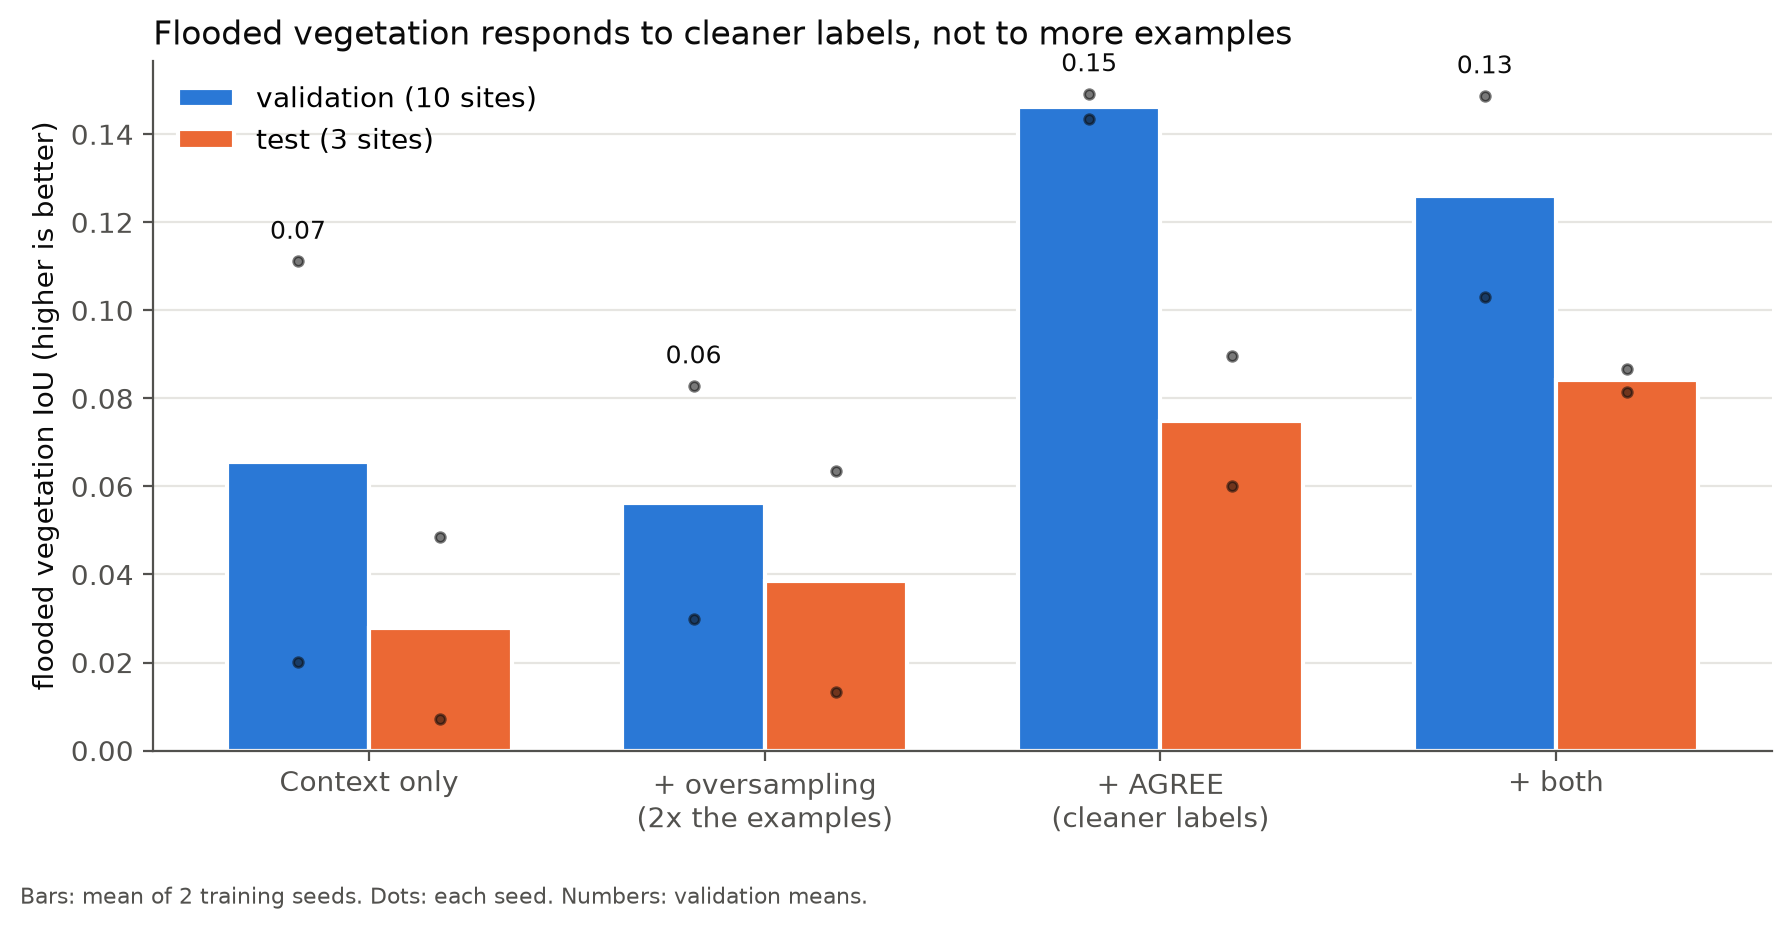
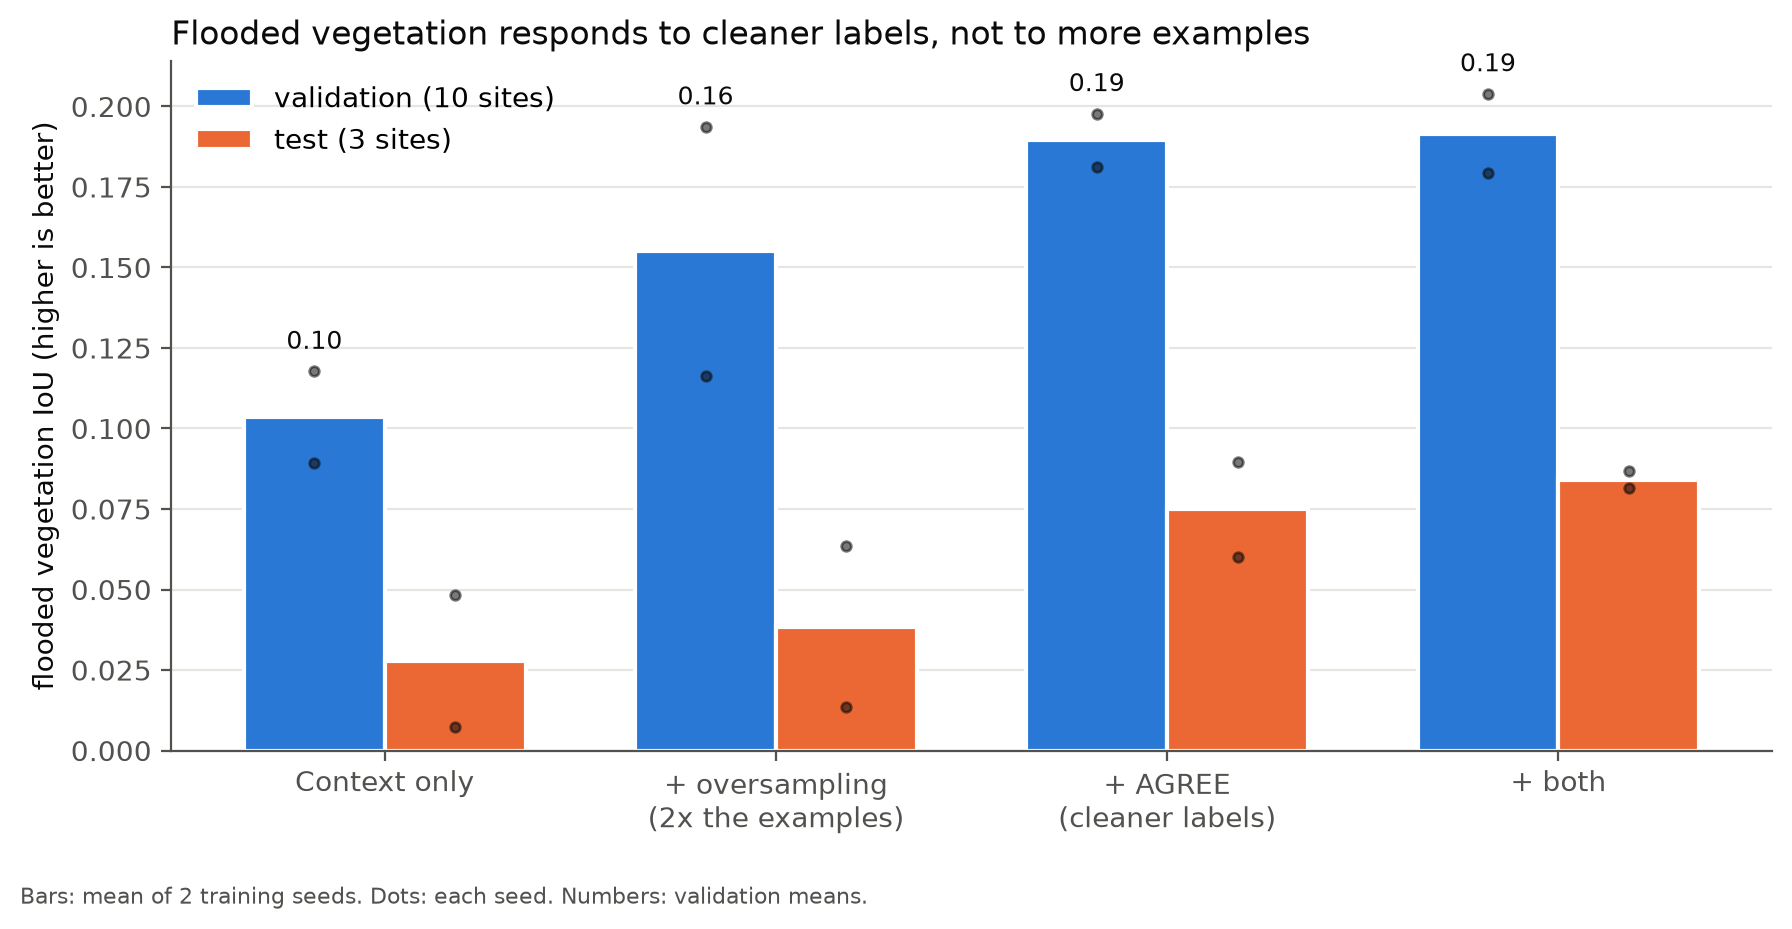
Server results: holdout, averaging on the holdout, stress test, report figures 1-8, results files of exp6-12

diff --git a/experiments/stress_test.md b/experiments/stress_test.md
@@ -1,0 +1,35 @@
+# Stress test of the prototype (final model, 2 seeds averaged)
+
+Agreement: the model's map of the year against Dynamic World (its training labels) and ESA WorldCover. Biggest change: first to last month with radar, in points (= km²). Seconds: fetch and model, 0 when reused.
+
+| Group | Place | Months with radar | Nearest training site | vs Dynamic World | vs WorldCover | Biggest change | s | Look for |
+|---|---|---|---|---|---|---|---|---|
+| everyday | Paris, France: city | 12/12 | 92 km (beauce cereal) | 91% | 82% | built -0.3, trees +0.2 | 0 | built, stable |
+| everyday | Iowa, USA: corn belt | 12/12 | 63 km (iowa corn) | 82% | 62% | trees -1.9, crops +1.0 | 0 | crops, harvest in autumn |
+| everyday | Pampas, Argentina: cropland | 12/12 | 183 km (pampa crops) | 81% | 75% | crops +10.1, low vegetation -9.5 | 0 | crops |
+| everyday | Amazonas, Brazil: rainforest | 12/12 | 230 km (amazon varzea) | 100% | 100% | water +0.0, trees +0.0 | 0 | trees, stable |
+| everyday | Nile delta, Egypt: farmland | 12/12 | 332 km (minya nile) | 96% | 86% | bare -4.8, crops +4.0 | 0 | crops, villages |
+| everyday | Lucknow, India: city and fields | 12/12 | 265 km (gorakhpur) | 87% | 76% | built -0.4, water +0.3 | 0 | built, crops |
+| everyday | Furano, Japan: farmland and forest | 12/12 | 1,512 km (korea paddies) | 91% | 82% | crops -2.0, low vegetation +1.1 | 0 | crops, trees |
+| everyday | Longreach, Australia: cattle country | 12/12 | 1,235 km (murray irrigation) | 52% | 34% | crops +5.8, low vegetation -4.7 | 0 | low vegetation, bare |
+| everyday | Lahti, Finland: lakes and forest | 12/12 | 600 km (dalarna boreal) | 89% | 79% | built -2.6, trees +2.4 | 0 | trees, water; above 60 N |
+| everyday | Krasnoyarsk krai, Russia: taiga | 12/12 | 3,365 km (north china wheat) | 97% | 97% | low vegetation +26.5, trees -26.3 | 0 | trees; far north, far from training data |
+| edge | Open Atlantic | – | – | – | – | – | 2 | **ValueError: no Sentinel-1 scenes at this location in these 12 months** |
+| edge | Grand Erg Oriental, Algeria: sand sea | 12/12 | 1,289 km (jaen olives) | 74% | 74% | water +6.1, bare -6.1 | 0 | bare, stable |
+| edge | Greenland ice margin | 3/12 | 2,702 km (irish midlands) | – | nan% | low vegetation +5.1, bare -4.0 | 0 | ice and snow: no such class, expect confusion |
+| edge | Everest, Nepal: high mountains | 12/12 | 343 km (gorakhpur) | 0% | 2% | water -19.0, low vegetation +15.3 | 0 | steep terrain, snow: expect confusion |
+| edge | Bernese Alps, Switzerland | 12/12 | 157 km (black forest) | 35% | 40% | low vegetation +27.5, water -16.5 | 0 | mountains, glacier, valley towns |
+| edge | Dubai, UAE: coast, city, desert | 12/12 | 1,573 km (jaisalmer) | 71% | 66% | low vegetation +3.7, crops -3.6 | 0 | water, built, bare |
+| event | Kakhovka reservoir, Ukraine: dam destroyed 6 June 2023 | 12/12 | 482 km (danube delta) | 71% | 50% | water -59.0, bare +34.1 | 0 | water falls from June 2023 |
+| event | Tulare Lake, California: lake returned in spring 2023 | 12/12 | 412 km (sacramento rice) | 53% | 49% | water +30.9, crops -26.3 | 0 | water rises from March 2023 |
+| event | Manchar Lake, Pakistan: overflowed in the floods of August 2022 | 12/12 | 330 km (jaisalmer) | 87% | 77% | bare -12.6, water +6.9 | 0 | water rises Aug-Oct 2022 |
+| event | Pacific Palisades, California: fire of January 2025 | 12/12 | 297 km (imperial valley) | 76% | 76% | low vegetation -3.6, trees +3.3 | 0 | trees/low veg to bare in Jan 2025 |
+
+## Change events, month by month (smoothed maps, % of the square)
+
+| Event | Class | m1 | m2 | m3 | m4 | m5 | m6 | m7 | m8 | m9 | m10 | m11 | m12 |
+|---|---|---|---|---|---|---|---|---|---|---|---|---|---|
+| Kakhovka reservoir, Ukraine: dam destroyed 6 June 2023 (m1 = 2023-01) | water | 73 | 76 | 76 | 76 | 76 | 38 | 12 | 10 | 10 | 9 | 12 | 14 |
+| Tulare Lake, California: lake returned in spring 2023 (m1 = 2022-10) | water | 35 | 41 | 36 | 37 | 37 | 50 | 61 | 69 | 71 | 74 | 68 | 66 |
+| Manchar Lake, Pakistan: overflowed in the floods of August 2022 (m1 = 2022-04) | water | 68 | 67 | 67 | 74 | 96 | 96 | 96 | 95 | 92 | 84 | 77 | 75 |
+| Pacific Palisades, California: fire of January 2025 (m1 = 2024-07) | bare | 0 | 0 | 0 | 0 | 0 | 0 | 0 | 0 | 0 | 0 | 0 | 0 |

diff --git a/experiments/exp11_averaging/results_val_final.md b/experiments/exp11_averaging/results_val_final.md
@@ -1,0 +1,25 @@
+# exp11: averaging on the `val,final` sites (full scenes, real monthly labels)
+
+Models: `experiments/exp8_ssl4eo/weights/hybrid_r50_ctx_agree.pt`, `experiments/exp8_ssl4eo/weights/hybrid_r50_ctx_agree_seed1.pt`. 5 min in all. '1 seed' = the mean of the two models' own scores. False changes: share of pixels whose Dynamic World class stays the same from one month with radar to the next, where the model's class changes; missed changes: the reverse.
+
+| Seeds · views · months | mIoU | false changes | missed changes | water | trees | low vegetation | flooded vegetation | crops | built | bare |
+|---|---|---|---|---|---|---|---|---|---|---|
+| 1 seed · 1 view · none | 0.411 | 18.5% | 71.0% | 0.591 | 0.510 | 0.271 | 0.220 | 0.400 | 0.667 | 0.219 |
+| 2 seeds · 1 view · none | 0.417 | 17.2% | 72.4% | 0.591 | 0.516 | 0.274 | 0.234 | 0.406 | 0.675 | 0.224 |
+| 1 seed · 1 view · despike | 0.416 | 10.3% | 82.0% | 0.590 | 0.514 | 0.274 | 0.226 | 0.411 | 0.673 | 0.224 |
+| 2 seeds · 1 view · despike | 0.421 | 9.6% | 82.7% | 0.590 | 0.520 | 0.276 | 0.238 | 0.416 | 0.680 | 0.228 |
+| 1 seed · 1 view · 3-month mean | 0.419 | 9.5% | 83.7% | 0.587 | 0.516 | 0.276 | 0.236 | 0.419 | 0.674 | 0.225 |
+| 2 seeds · 1 view · 3-month mean | 0.425 | 9.0% | 84.2% | 0.588 | 0.521 | 0.278 | 0.250 | 0.424 | 0.681 | 0.231 |
+| 1 seed · 8 views · none | 0.414 | 17.5% | 72.1% | 0.591 | 0.513 | 0.273 | 0.223 | 0.404 | 0.673 | 0.221 |
+| 2 seeds · 8 views · none | 0.419 | 16.6% | 73.1% | 0.592 | 0.518 | 0.275 | 0.234 | 0.409 | 0.679 | 0.225 |
+| 1 seed · 8 views · despike | 0.418 | 9.9% | 82.6% | 0.591 | 0.517 | 0.275 | 0.227 | 0.414 | 0.678 | 0.226 |
+| 2 seeds · 8 views · despike | 0.422 | 9.3% | 83.1% | 0.591 | 0.521 | 0.276 | 0.237 | 0.418 | 0.683 | 0.229 |
+| 1 seed · 8 views · 3-month mean | 0.421 | 9.2% | 84.2% | 0.587 | 0.519 | 0.277 | 0.237 | 0.421 | 0.679 | 0.227 |
+| 2 seeds · 8 views · 3-month mean | 0.426 | 8.7% | 84.5% | 0.588 | 0.523 | 0.279 | 0.248 | 0.425 | 0.684 | 0.232 |
+
+**Rules (exp11 README):**
+1. **2 seeds**: mIoU +0.006, largest class drop +0.001: met
+2. **8 views**: mIoU +0.003, largest class drop +0.001: not met
+3. **3-month mean instead of despike**: mIoU +0.003, false changes -0.7 points, missed changes +1.7 points: met
+
+**The prototype uses: 2 seeds · 1 view · 3-month mean** (mIoU 0.425, false changes 9.0%, missed 84.2%)

diff --git a/experiments/exp11_averaging/results_holdout.md b/experiments/exp11_averaging/results_holdout.md
@@ -1,0 +1,18 @@
+# exp11: averaging on the `holdout` sites (full scenes, real monthly labels)
+
+Models: `experiments/exp10_final/weights/hybrid_r50_ctx_agree_final.pt`, `experiments/exp10_final/weights/hybrid_r50_ctx_agree_final_seed1.pt`. 1 min in all. '1 seed' = the mean of the two models' own scores. False changes: share of pixels whose Dynamic World class stays the same from one month with radar to the next, where the model's class changes; missed changes: the reverse.
+
+| Seeds · views · months | mIoU | false changes | missed changes | water | trees | low vegetation | flooded vegetation | crops | built | bare |
+|---|---|---|---|---|---|---|---|---|---|---|
+| 1 seed · 1 view · none | 0.481 | 8.8% | 80.7% | 0.806 | 0.632 | 0.417 | 0.060 | 0.406 | 0.803 | 0.242 |
+| 2 seeds · 1 view · none | 0.486 | 7.9% | 82.1% | 0.813 | 0.637 | 0.421 | 0.064 | 0.414 | 0.807 | 0.245 |
+| 1 seed · 1 view · despike | 0.483 | 4.1% | 91.4% | 0.809 | 0.632 | 0.421 | 0.063 | 0.412 | 0.805 | 0.241 |
+| 2 seeds · 1 view · despike | 0.487 | 3.7% | 92.1% | 0.814 | 0.636 | 0.425 | 0.065 | 0.420 | 0.808 | 0.243 |
+| 1 seed · 1 view · 3-month mean | 0.485 | 4.0% | 91.8% | 0.809 | 0.632 | 0.424 | 0.070 | 0.415 | 0.805 | 0.242 |
+| 2 seeds · 1 view · 3-month mean | 0.489 | 3.6% | 92.2% | 0.814 | 0.636 | 0.428 | 0.073 | 0.422 | 0.808 | 0.244 |
+| 1 seed · 8 views · none | 0.485 | 8.0% | 81.9% | 0.812 | 0.635 | 0.422 | 0.061 | 0.411 | 0.806 | 0.244 |
+| 2 seeds · 8 views · none | 0.488 | 7.4% | 82.8% | 0.815 | 0.638 | 0.426 | 0.064 | 0.417 | 0.808 | 0.247 |
+| 1 seed · 8 views · despike | 0.486 | 3.7% | 91.8% | 0.813 | 0.634 | 0.426 | 0.063 | 0.417 | 0.807 | 0.242 |
+| 2 seeds · 8 views · despike | 0.489 | 3.5% | 92.4% | 0.816 | 0.637 | 0.429 | 0.065 | 0.422 | 0.809 | 0.243 |
+| 1 seed · 8 views · 3-month mean | 0.488 | 3.7% | 92.1% | 0.813 | 0.634 | 0.429 | 0.070 | 0.419 | 0.807 | 0.242 |
+| 2 seeds · 8 views · 3-month mean | 0.491 | 3.4% | 92.5% | 0.815 | 0.637 | 0.432 | 0.073 | 0.424 | 0.809 | 0.244 |

diff --git a/experiments/holdout_results.md b/experiments/holdout_results.md
@@ -1,0 +1,11 @@
+# Scores on the holdout sites (scored once)
+
+| Model | mIoU | mIoU tropics | mIoU new regions | water | trees | low vegetation | flooded vegetation | crops | built | bare |
+|---|---|---|---|---|---|---|---|---|---|---|
+| `experiments/exp4_50sites/weights/hybrid_ctx_agree.pt` | 0.433 | 0.357 | 0.437 | 0.743 | 0.568 | 0.364 | 0.037 | 0.339 | 0.793 | 0.189 |
+| `experiments/exp8_ssl4eo/weights/hybrid_r50_ctx_agree.pt` | 0.420 | 0.364 | 0.413 | 0.706 | 0.554 | 0.334 | 0.037 | 0.347 | 0.782 | 0.182 |
+| `experiments/exp8_ssl4eo/weights/hybrid_r50_ctx_agree_seed1.pt` | 0.425 | 0.368 | 0.414 | 0.733 | 0.561 | 0.316 | 0.046 | 0.321 | 0.794 | 0.206 |
+| `experiments/exp8_ssl4eo/weights/hybrid_r50_ssl4eo_ctx_agree.pt` | 0.414 | 0.333 | 0.422 | 0.690 | 0.525 | 0.366 | 0.021 | 0.326 | 0.797 | 0.169 |
+| `experiments/exp8_ssl4eo/weights/hybrid_r50_ssl4eo_ctx_agree_seed1.pt` | 0.414 | 0.342 | 0.424 | 0.700 | 0.539 | 0.373 | 0.042 | 0.298 | 0.801 | 0.142 |
+| `experiments/exp10_final/weights/hybrid_r50_ctx_agree_final.pt` | 0.481 | 0.366 | 0.491 | 0.786 | 0.633 | 0.415 | 0.068 | 0.416 | 0.806 | 0.243 |
+| `experiments/exp10_final/weights/hybrid_r50_ctx_agree_final_seed1.pt` | 0.481 | 0.366 | 0.495 | 0.794 | 0.633 | 0.428 | 0.072 | 0.402 | 0.808 | 0.233 |

diff --git a/experiments/final_results.md b/experiments/final_results.md
@@ -1,0 +1,8 @@
+# Scores on the 6 final sites (scored once)
+
+| Model | mIoU | water | trees | low vegetation | flooded vegetation | crops | built | bare |
+|---|---|---|---|---|---|---|---|---|
+| `experiments/exp8_ssl4eo/weights/hybrid_r50_ctx_agree.pt` | 0.399 | 0.617 | 0.536 | 0.271 | 0.140 | 0.444 | 0.569 | 0.214 |
+| `experiments/exp8_ssl4eo/weights/hybrid_r50_ctx_agree_seed1.pt` | 0.385 | 0.597 | 0.538 | 0.229 | 0.139 | 0.405 | 0.597 | 0.189 |
+| `experiments/exp12_lovasz/weights/hybrid_r50_ctx_agree_lovasz.pt` | 0.391 | 0.607 | 0.528 | 0.250 | 0.146 | 0.422 | 0.582 | 0.197 |
+| `experiments/exp12_lovasz/weights/hybrid_r50_ctx_agree_lovasz_seed1.pt` | 0.396 | 0.597 | 0.564 | 0.243 | 0.174 | 0.417 | 0.582 | 0.193 |
